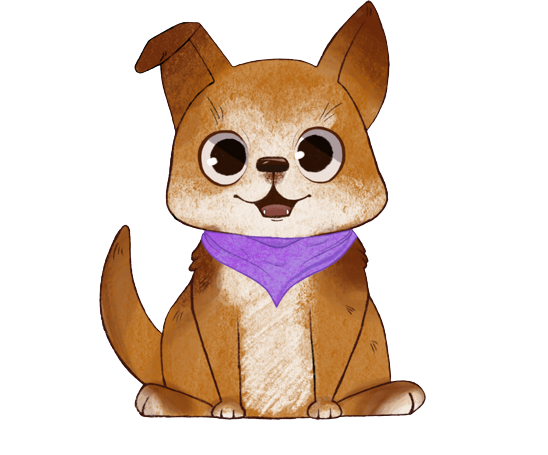
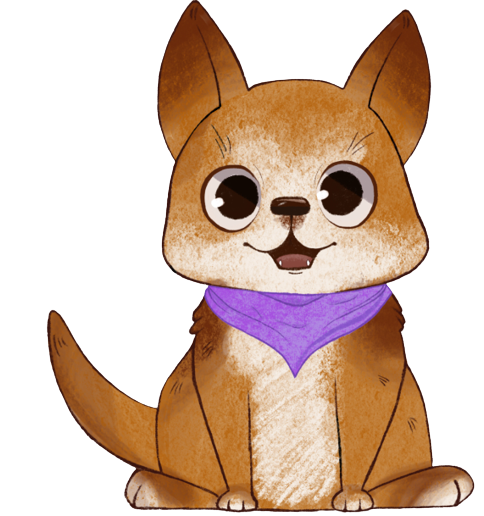
changing images on right answers

diff --git a/game.js b/game.js
@@ -84,6 +84,8 @@ function reset() {
     points=0;
     progressN=0;
     progressP=0;
+    let gameImage = document.getElementById("gameSceneDog");
+    gameImage.src = './images/transition dog.png';
     UpdateProgressBar();
 }
 
@@ -150,19 +152,34 @@ function UpdateProgressBar(){
     document.getElementById("progressN").style.width = width;
 }
 
+function checkImageAnswers(answer,imgSrc) {
+    console.log(imgSrc);
+    if ((imgSrc.src === './images/sad dog.png' && answer === 'sad') || (imgSrc.src === './images/mate.png' && answer === 'happy')) {
+        return;
+    }
+    return answer === 'happy' ? imgSrc.src = './images/mate.png' : imgSrc.src = './images/sad dog.png'
+}
+
 function checkAnswer(){
     rounds++;
     let userAnswer = document.getElementById("userInput").value;
+    let gameImage = document.getElementById("gameSceneDog")
     if(userAnswer != "" && answer == Number(userAnswer)){
         points++;
         progressP += 20;
         console.log("Earned Point!");
-    }else{
+        checkImageAnswers('happy', gameImage);
+    } else if (answer !== Number(userAnswer)) {
+        checkImageAnswers('sad', gameImage);
+    }
+    else{
         progressN += 20;
     }
     
     if(rounds == 5){ 
         document.getElementById("result").innerHTML = "Result " + points + "/5";
+        let endImage = document.getElementById("endSceneDog");
+        checkImageAnswers(points >= 3 ? 'happy' : 'sad', endImage);
         rounds=0;
         points=0;
         openResultModal();

diff --git a/index.html b/index.html
@@ -152,7 +152,7 @@
         </div>
         <div class="col d-flex flex-column align-items-center">
           <div>
-            <img class="img-fluid mt-4" src="./images/mate.png" alt="emoji"/>
+            <img id="gameSceneDog" class="img-fluid mt-4" src="./images/transition dog.png" alt="emoji"/>
           </div>
         </div>
       </div>
@@ -208,7 +208,7 @@
         </div>
       </div>
       <div class="d-flex align-self-center justify-content-center">
-        <img class="img-fluid mt-4" src="./images/mate.png" alt="emoji"/>
+        <img id="endSceneDog" class="img-fluid mt-4" src="./images/mate.png" alt="emoji"/>
       </div>
       <div class="d-flex align-items-center justify-content-center">
         <div class="w-25">
